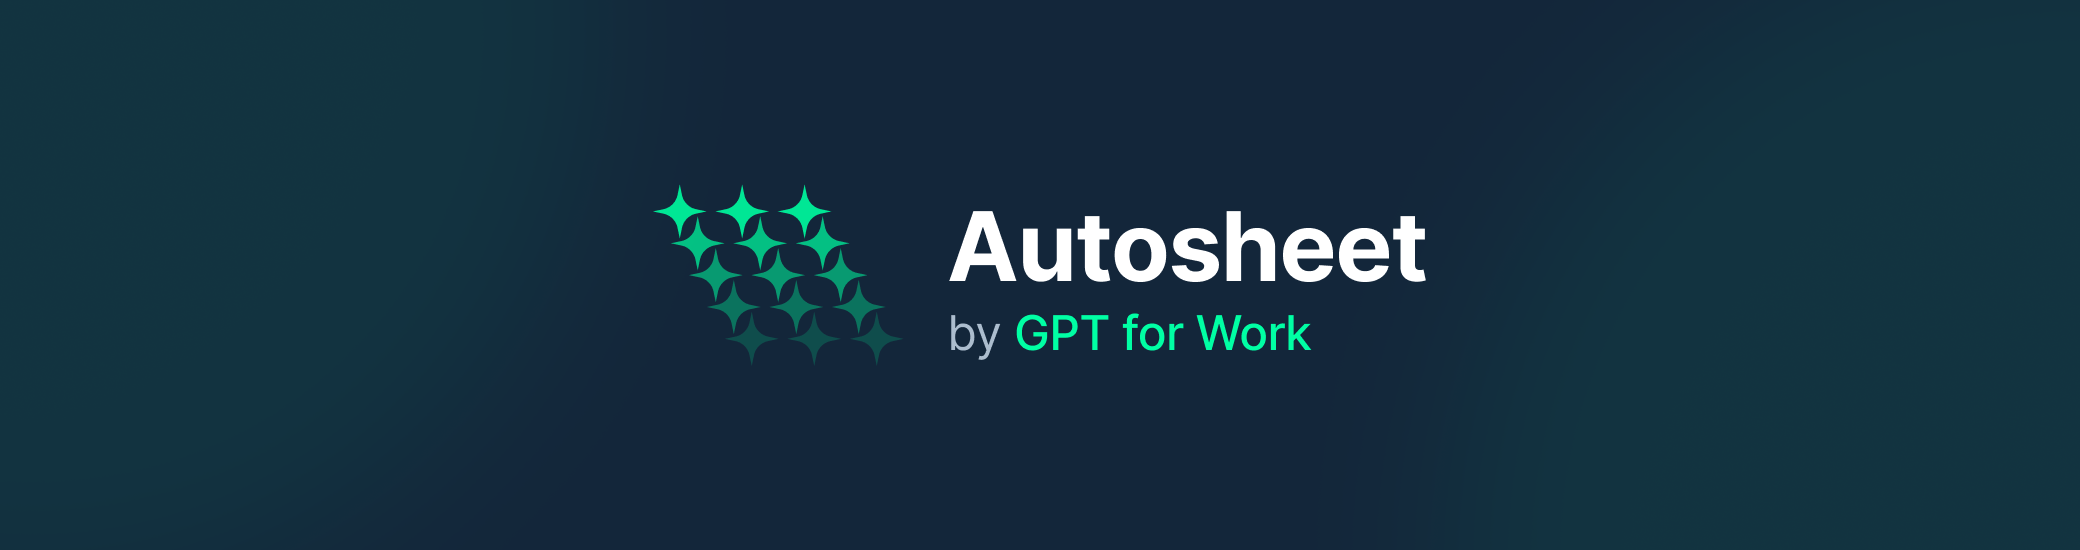
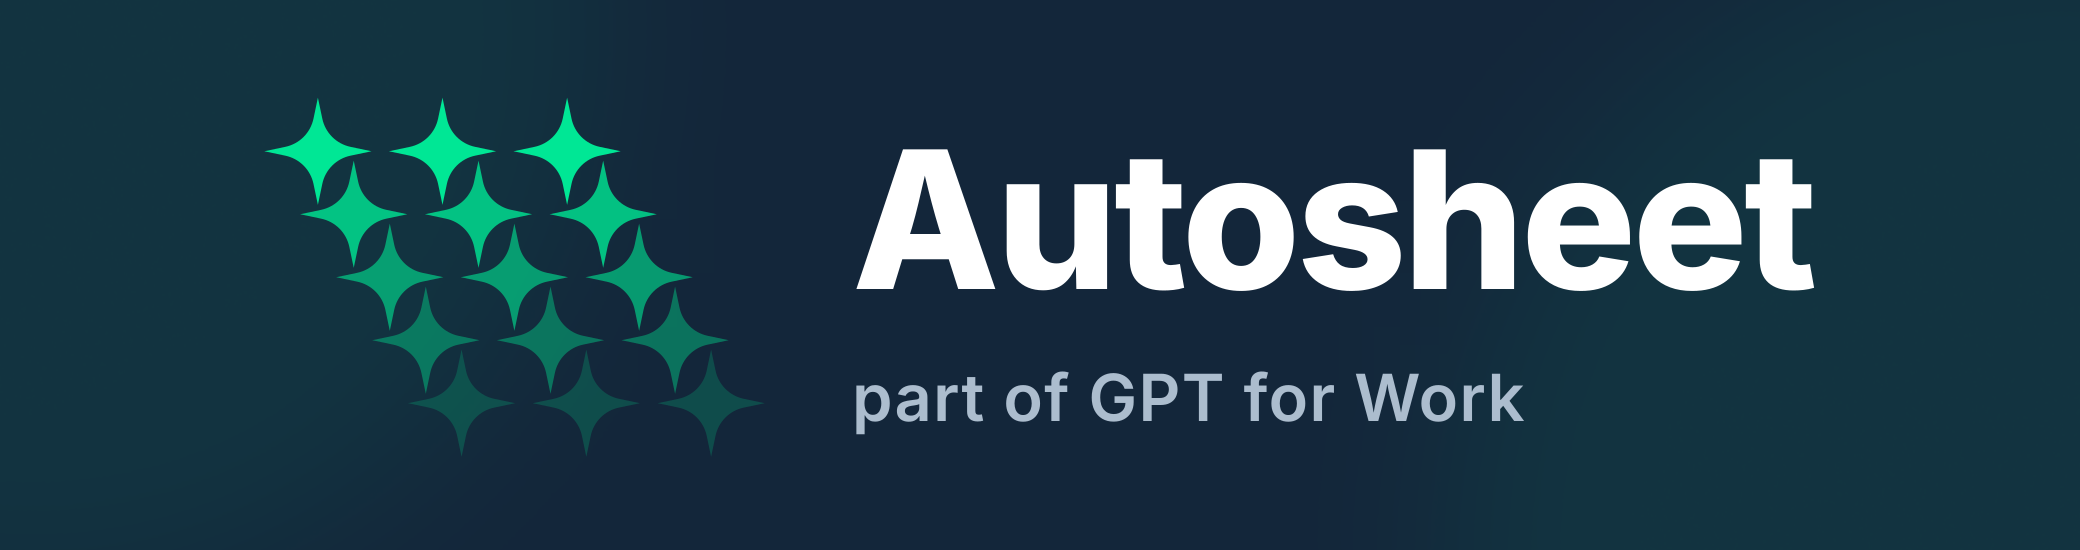
Rewrite README for Autosheet MCP scope (#1)

Changed region(s): [[0.125, 0.2164, 0.875, 0.8036], [0.4062, 0.68, 0.75, 0.7727]]

diff --git a/profile/README.md b/profile/README.md
@@ -1,37 +1,29 @@
-<p align="center" float="left">
-  <img alt="AutoSheet Logo" src="autosheet-github-profile.png" />
-</p>
+![Autosheet — part of GPT for Work](autosheet-github-profile.png)
 
-## Run an AI agent on any Google Sheet, via API.
-Just send a prompt and a Google Sheets id. Automating spreadsheet work has never been that easy.
+Autosheet is a spreadsheet agent that works directly in Google Sheets. You describe the work in plain language; the agent explores the spreadsheet, plans the work, does it, and checks its own results.
 
-```sh
-curl https://api.autosheet.com/v1/sheets/agents \
-  --request POST \
-  --header 'Content-Type: application/json' \
-  --header "X-API-Key: $AUTOSHEET_API_KEY" \
-  --data '{
-    "prompt": "Score these leads against our scoring rules.",
-    "document_id": "1mGKj92RmNEm_FeZudRs6ExBFMTdlvTWtwC38rhUMC0I"
-  }'
-```
+You can use Autosheet in two ways:
 
-and watch Autosheet work in your spreadsheet:
+- **[Autosheet MCP](https://github.com/run-autosheet/autosheet-mcp)** — Connect Claude, Claude Code CLI, ChatGPT, Codex CLI, or another compatible MCP client to the Autosheet MCP server and delegate spreadsheet work from your chat. Nothing to install.
 
-<p float="left">
-  <img width="512" height="327" alt="Autosheet scoring leads in Google Sheets" src="https://github.com/user-attachments/assets/92fe4c44-daf6-42f9-a214-324651444851" />
-</p>
+- **[Autosheet API](https://autosheet.com/docs/api)** — Call the same spreadsheet agent programmatically from your AI agent, workflow tool, or code.
 
+Autosheet is built by the team behind [GPT for Work](https://gptforwork.com/). The agent also powers [GPT for Sheets](https://gptforwork.com/docs/gpt-for-sheets). Using Autosheet requires a GPT for Work account.
+
+## What Autosheet can do
+
+- **Everyday spreadsheet work** — Write formulas, detect and fix errors, format cells, clean up tables, create charts and pivot tables, analyze data.
+
+- **Row-by-row bulk processing** — Clean, translate, categorize, generate, enrich, score, and more, across thousands of rows. For each column the agent fills, it writes one prompt template and uses a subagent to run the template against every row in parallel. This is AI processing per row, not a formula filled down.
+
+- **Web research** — Search the web and cite sources, the same as any chat agent. Sources are cited for research the agent does directly, not for bulk row-by-row search.
 
 ## Links
-- [Autosheet.com](https://autosheet.com/)
-- [Docs](https://autosheet.com/docs/)
-- [API reference](https://autosheet.com/docs/api/)
-- [Support](https://autosheet.com/support/)
-- [GPT for Work](https://gptforwork.com/)
 
-<div align="center">
-  <a href="https://www.youtube.com/@gptforwork" target="_blank">
-    <img src="https://img.shields.io/badge/YouTube-FF0000?style=for-the-badge&logo=youtube&logoColor=white" alt="YouTube" />
-  </a>
-</div>
+- [Autosheet](https://autosheet.com/)
+
+- [GPT for Work dashboard](https://dashboard.gptforwork.com/)
+
+- [Support](https://support.gptforwork.com/hc/en-us/requests/new)
+
+- [YouTube](https://www.youtube.com/@gptforwork)
